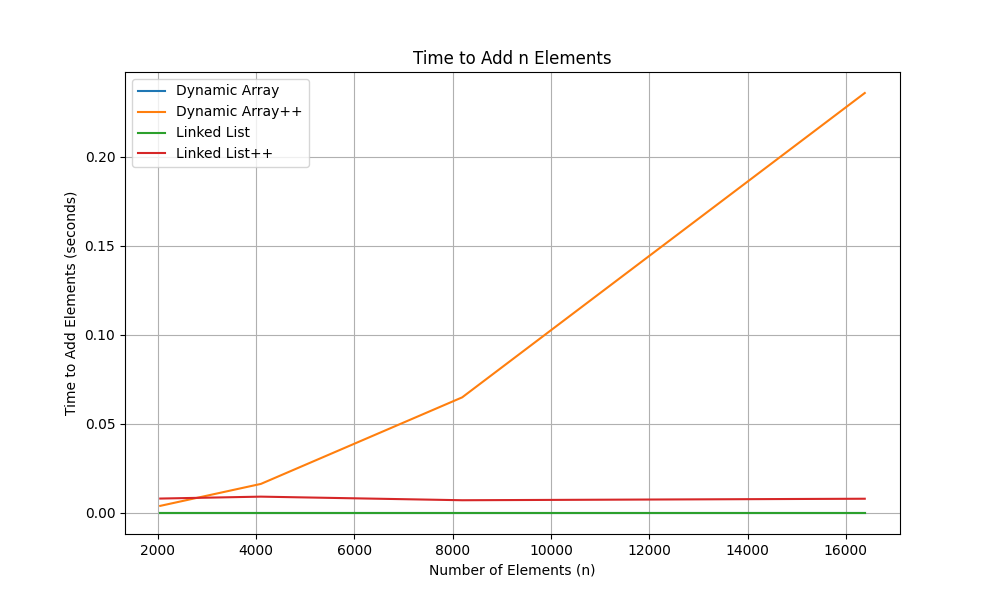
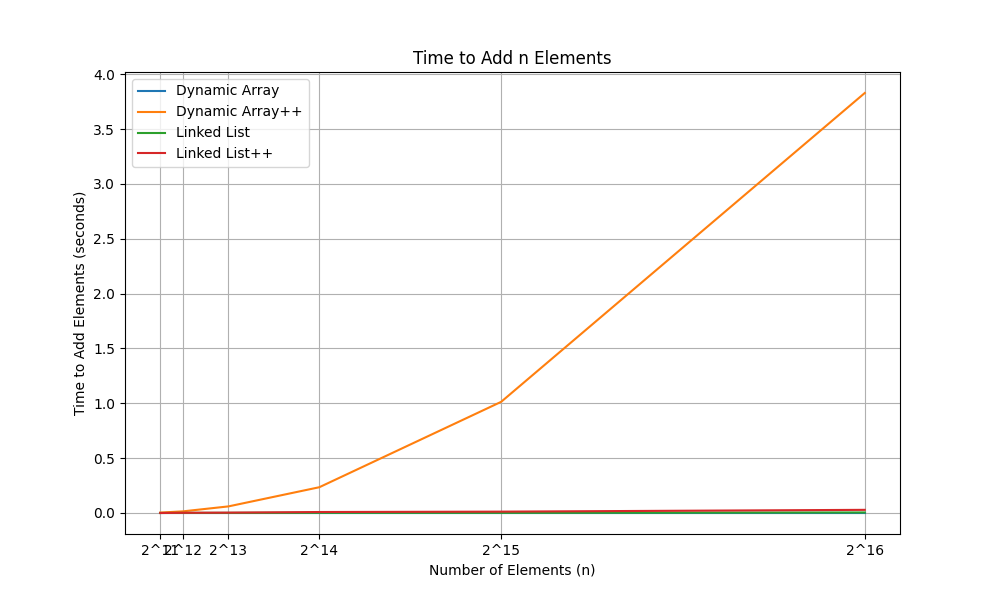
fix_plot

diff --git a/hw1/plot_script1.py b/hw1/plot_script1.py
@@ -22,6 +22,7 @@ def plot_first_graph(filenames, labels, output_image):
     plt.xlabel("Number of Elements (n)")
     plt.ylabel("Time to Add Elements (seconds)")
     plt.title("Time to Add n Elements")
+    plt.xticks(data['n'], [f'2^{int(math.log2(n))}' for n in data['n']])
     plt.legend()
     plt.grid(True)
     plt.savefig(output_image)
@@ -49,7 +50,7 @@ def main():
             f.write("n,time\n")  # CSV header
 
     # 迭代 k 值從 11 到 25，並計算對應的 n = 2^k
-    for k in range(11, 15):
+    for k in range(11, 17):
         n_value = int(math.pow(2, k))
         print(f"Running for n = 2^{k} = {n_value}")
         
